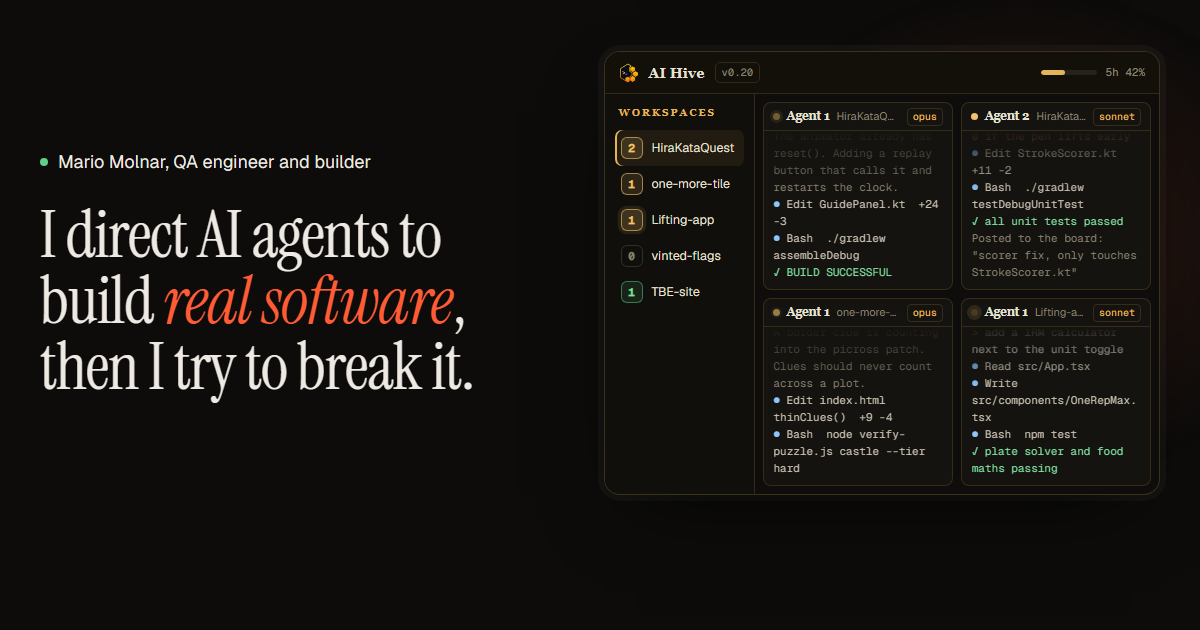
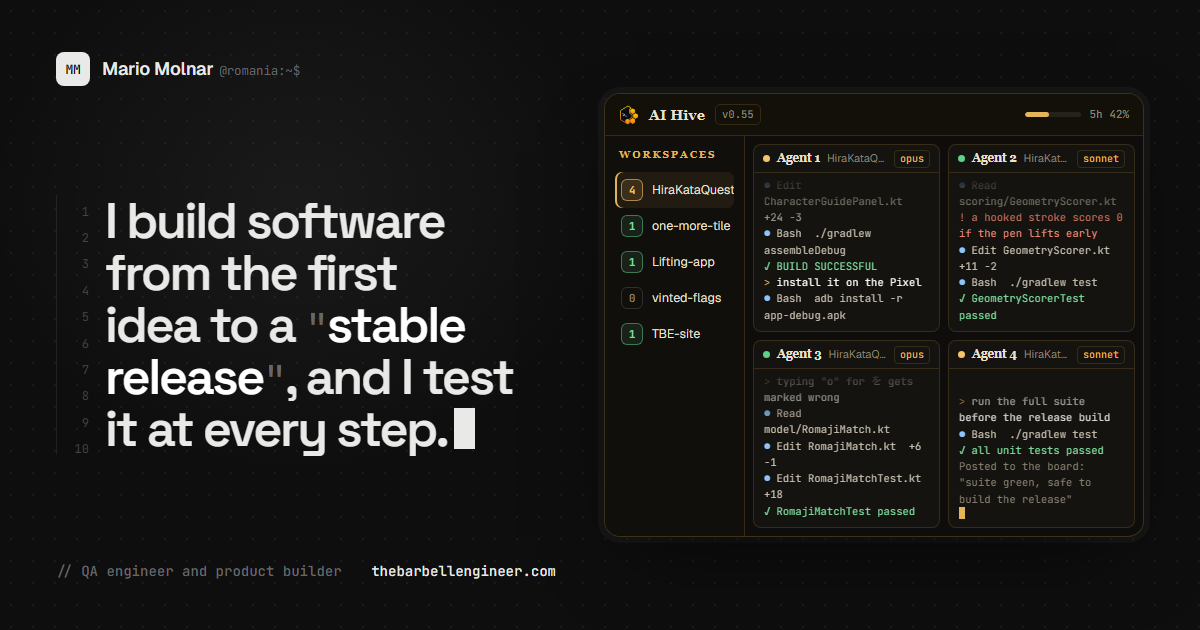
Redo the social preview image in Graphite
The old og.png still had the serif headline, "real software" in orange,
"break it" and an AI Hive v0.20 mockup. The new one uses the site's own
stylesheet: the current headline with the line gutter and cursor,
@romania:~$ beside the name, and AI Hive at v0.55. The og:image URL gets
?v=2 so link previews fetch the new file instead of a cached copy.

diff --git a/projects/ai-hive/index.html b/projects/ai-hive/index.html
@@ -11,7 +11,7 @@
   <meta property="og:title" content="AI Hive | Mario Molnar">
   <meta property="og:description" content="I built it when one terminal per assistant stopped scaling, somewhere around the fifth project. It lets me keep several workstreams moving at once and see all of them in one place.">
   <meta property="og:url" content="https://thebarbellengineer.com/projects/ai-hive/">
-  <meta property="og:image" content="https://thebarbellengineer.com/assets/img/og.png">
+  <meta property="og:image" content="https://thebarbellengineer.com/assets/img/og.png?v=2">
   <link rel="canonical" href="https://thebarbellengineer.com/projects/ai-hive/">
   <meta name="twitter:card" content="summary_large_image">
   <link rel="icon" href="/assets/img/favicon.svg" type="image/svg+xml">

diff --git a/projects/hirakataquest/index.html b/projects/hirakataquest/index.html
@@ -11,7 +11,7 @@
   <meta property="og:title" content="HiraKataQuest | Mario Molnar">
   <meta property="og:description" content="Most kana apps stop at recognition. This one makes you write each character by hand and tells you how well you wrote it.">
   <meta property="og:url" content="https://thebarbellengineer.com/projects/hirakataquest/">
-  <meta property="og:image" content="https://thebarbellengineer.com/assets/img/og.png">
+  <meta property="og:image" content="https://thebarbellengineer.com/assets/img/og.png?v=2">
   <link rel="canonical" href="https://thebarbellengineer.com/projects/hirakataquest/">
   <meta name="twitter:card" content="summary_large_image">
   <link rel="icon" href="/assets/img/favicon.svg" type="image/svg+xml">

diff --git a/changelog/index.html b/changelog/index.html
@@ -11,7 +11,7 @@
   <meta property="og:title" content="Changelog | Mario Molnar">
   <meta property="og:description" content="Every release and change across my projects, newest first. 193 entries from 9 projects, 149 of them numbered versions, since Jun 2026.">
   <meta property="og:url" content="https://thebarbellengineer.com/changelog/">
-  <meta property="og:image" content="https://thebarbellengineer.com/assets/img/og.png">
+  <meta property="og:image" content="https://thebarbellengineer.com/assets/img/og.png?v=2">
   <link rel="canonical" href="https://thebarbellengineer.com/changelog/">
   <meta name="twitter:card" content="summary_large_image">
   <link rel="icon" href="/assets/img/favicon.svg" type="image/svg+xml">

diff --git a/projects/hirakataquest/changelog/index.html b/projects/hirakataquest/changelog/index.html
@@ -11,7 +11,7 @@
   <meta property="og:title" content="HiraKataQuest changelog | Mario Molnar">
   <meta property="og:description" content="What changed in HiraKataQuest, 27 entries, newest first.">
   <meta property="og:url" content="https://thebarbellengineer.com/projects/hirakataquest/changelog/">
-  <meta property="og:image" content="https://thebarbellengineer.com/assets/img/og.png">
+  <meta property="og:image" content="https://thebarbellengineer.com/assets/img/og.png?v=2">
   <link rel="canonical" href="https://thebarbellengineer.com/projects/hirakataquest/changelog/">
   <meta name="twitter:card" content="summary_large_image">
   <link rel="icon" href="/assets/img/favicon.svg" type="image/svg+xml">

diff --git a/index.html b/index.html
@@ -11,7 +11,7 @@
   <meta property="og:title" content="Mario Molnar | Software from idea to release">
   <meta property="og:description" content="Product builder and QA engineer who takes real software from idea to release. Android, Windows, web, Chrome.">
   <meta property="og:url" content="https://thebarbellengineer.com/">
-  <meta property="og:image" content="https://thebarbellengineer.com/assets/img/og.png">
+  <meta property="og:image" content="https://thebarbellengineer.com/assets/img/og.png?v=2">
   <link rel="canonical" href="https://thebarbellengineer.com/">
   <meta name="twitter:card" content="summary_large_image">
   <link rel="icon" href="assets/img/favicon.svg" type="image/svg+xml">

diff --git a/projects/ai-hive/changelog/index.html b/projects/ai-hive/changelog/index.html
@@ -11,7 +11,7 @@
   <meta property="og:title" content="AI Hive changelog | Mario Molnar">
   <meta property="og:description" content="What changed in AI Hive, 75 entries, newest first.">
   <meta property="og:url" content="https://thebarbellengineer.com/projects/ai-hive/changelog/">
-  <meta property="og:image" content="https://thebarbellengineer.com/assets/img/og.png">
+  <meta property="og:image" content="https://thebarbellengineer.com/assets/img/og.png?v=2">
   <link rel="canonical" href="https://thebarbellengineer.com/projects/ai-hive/changelog/">
   <meta name="twitter:card" content="summary_large_image">
   <link rel="icon" href="/assets/img/favicon.svg" type="image/svg+xml">
